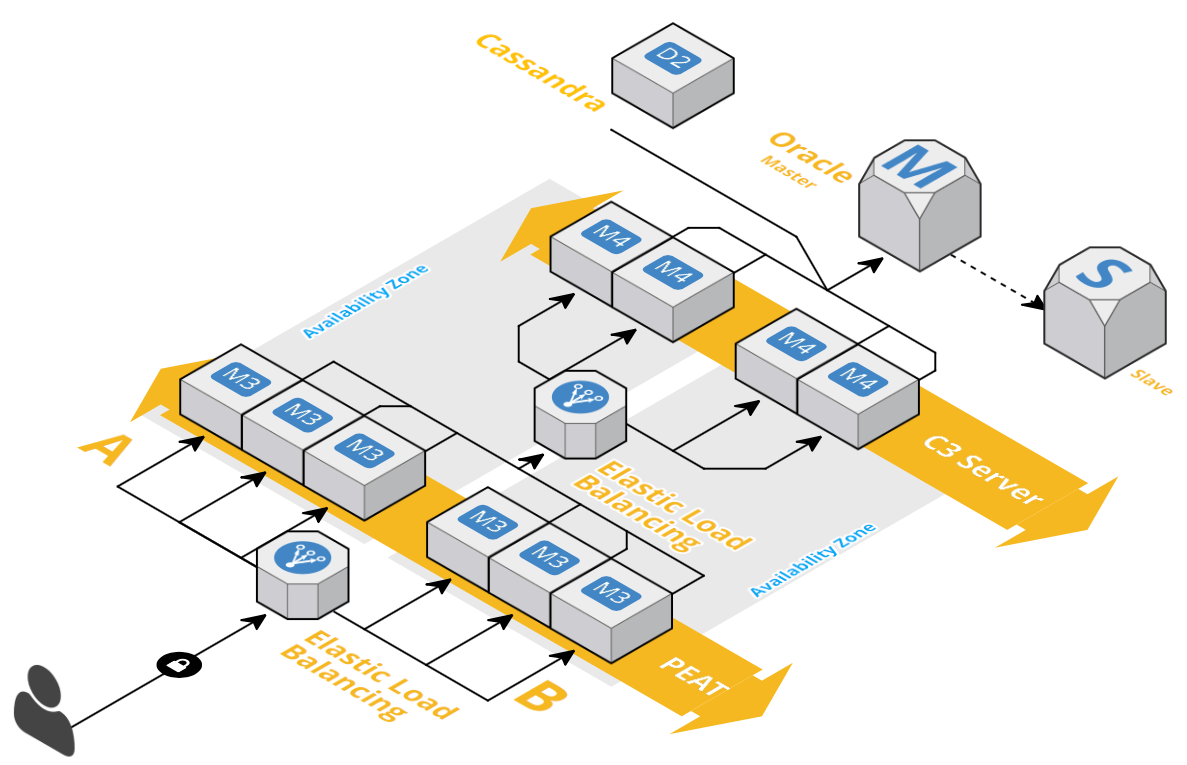
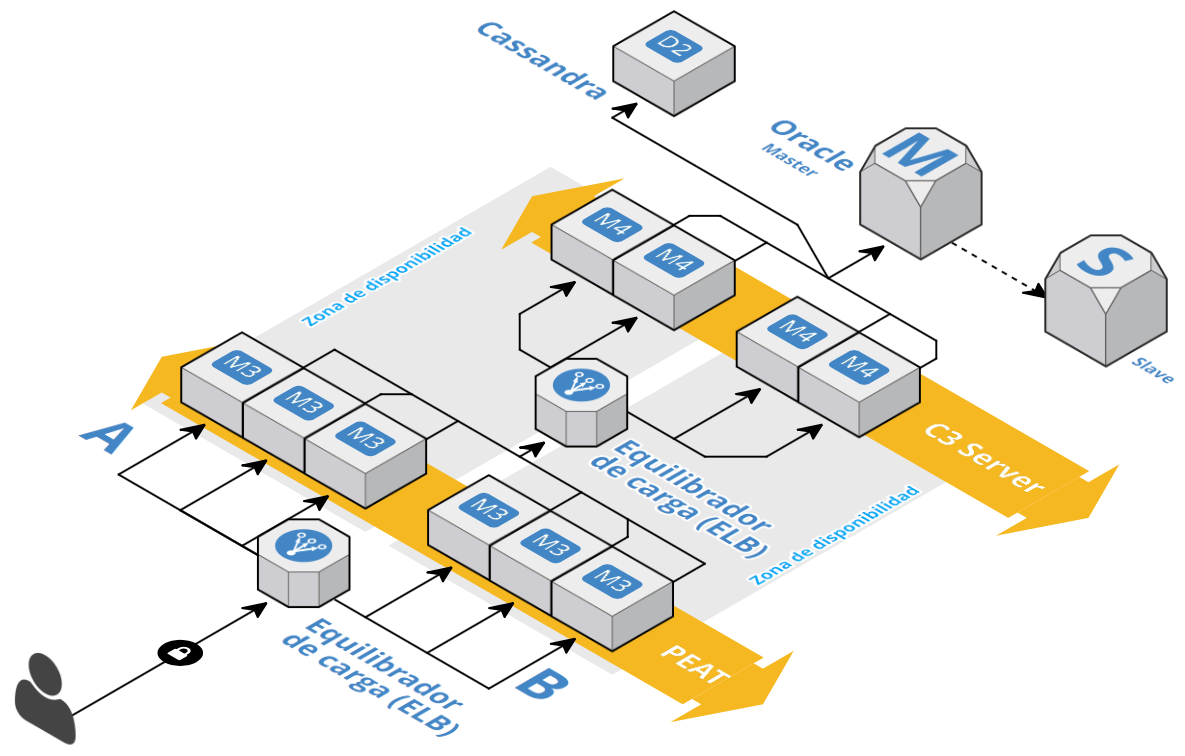
Modify production environment.

diff --git a/chapter4.tex b/chapter4.tex
@@ -9,6 +9,58 @@ de cola, etcétera. Por lo que automatizar el despliegue de una aplicación en s
 diferentes contextos, desarrollo, producción y pruebas, es de vital importancia
 para el desarrollo de software en tiempo y en forma.
 
+\section{Arquitectura de los ambientes de prueba y producción}
+
+Para el despliegue de los ambientes requeridos para \texttt{PEAT} se hizo uso de
+\textit{Amazon Web Services} (AWS) en particular del servicio
+\textit{Amazon Elastic Compute Cloud} (EC2) que permite la renta de servidores
+para correr aplicaciones.
+
+El uso de \texttt{EC2} presentaba las siguientes ventajas:
+\begin{itemize}
+\item Una comunicación mas rápida y segura con el \texttt{backend} dado que el
+  servidor C3 corre bajo el servicio \texttt{EC2}.
+\item Permite un gran margen de maniobra en la configuración de los servidores
+  puesto que permite elegir entre una gran variedad de sistema operativos,
+  capacidad de computo, etcétera.
+\item Permite la creación y configuración automatizada de los servidores
+  permitiendo que el sistema pueda escalar rápidamente según las necesidades
+  de computo.
+\end{itemize}
+
+\rjcimage{1.0}{imagenes/Ambiente-Produccion.png}{Arquitectura ambiente de producción.}{produccion}
+
+El ambiente de produccion tiene los siguientes componentes:
+\begin{itemize}
+\item Equilibradores de carga: AWS tiene el servicio \textit{Elastic Load Balancing}
+  (ELB) permite obtener nivel altos de tolerancia al permitir enrutar el trafico
+  de forma automatica a varias instancias EC2 en varias zonas de
+  disponibilidad (Ver Figura \ref{fig:produccion} ELB).
+\item Servidores EC2: son servidores con capacidades de computo que pueden ser
+  activadas en cuestión de minutos. Para el sistema \texttt{PEAT} se usan instancias
+  del tipo \texttt{M3}\footnote{Estas instancias proporcionan un CPU virtual y
+    2 GB de memoria.}. Para el servidor C3 se usan instancias de tipo \texttt{M4}
+  \footnote{Estas instancias proporcionan 4 CPU virtuales y 16 GB de memoria.}
+  (Ver Figura \ref{fig:produccion} M3 y M4).
+\item Oracle BD: la base de datos usada para almacenar la informacion usada
+  por el servidor C3 es administrada por una base de datos Oracle Database 10g
+  (Ver Figura \ref{fig:produccion} Oracle).
+\item Cassandra: se tenia un cluster de nodos corriendo Cassandra donde se
+  realiza analisis de los datos contenidos en la base de datos de Oracle y
+  tambien se usaba como capa de cache del servidor C3.
+\end{itemize}
+
+Se pude observar que la figura que se tienen dos zonas de disponibilidad estas zonas
+se encuentran en ubicaciones físicas distintas que cuentan con su propia
+infraestructura, independiente y físicamente distinta con lo que se tiene una mayor
+redundancia al no tener un solo punto punto de error.
+
+
+
+% https://aws.amazon.com/es/ec2/instance-types/ EC2
+% https://aws.amazon.com/es/ec2/faqs/
+
+
 \section{Despliegue continuo}
 
 El despliegue continuo (\textit{Continuous Delivery}, CD) es una práctica de software
